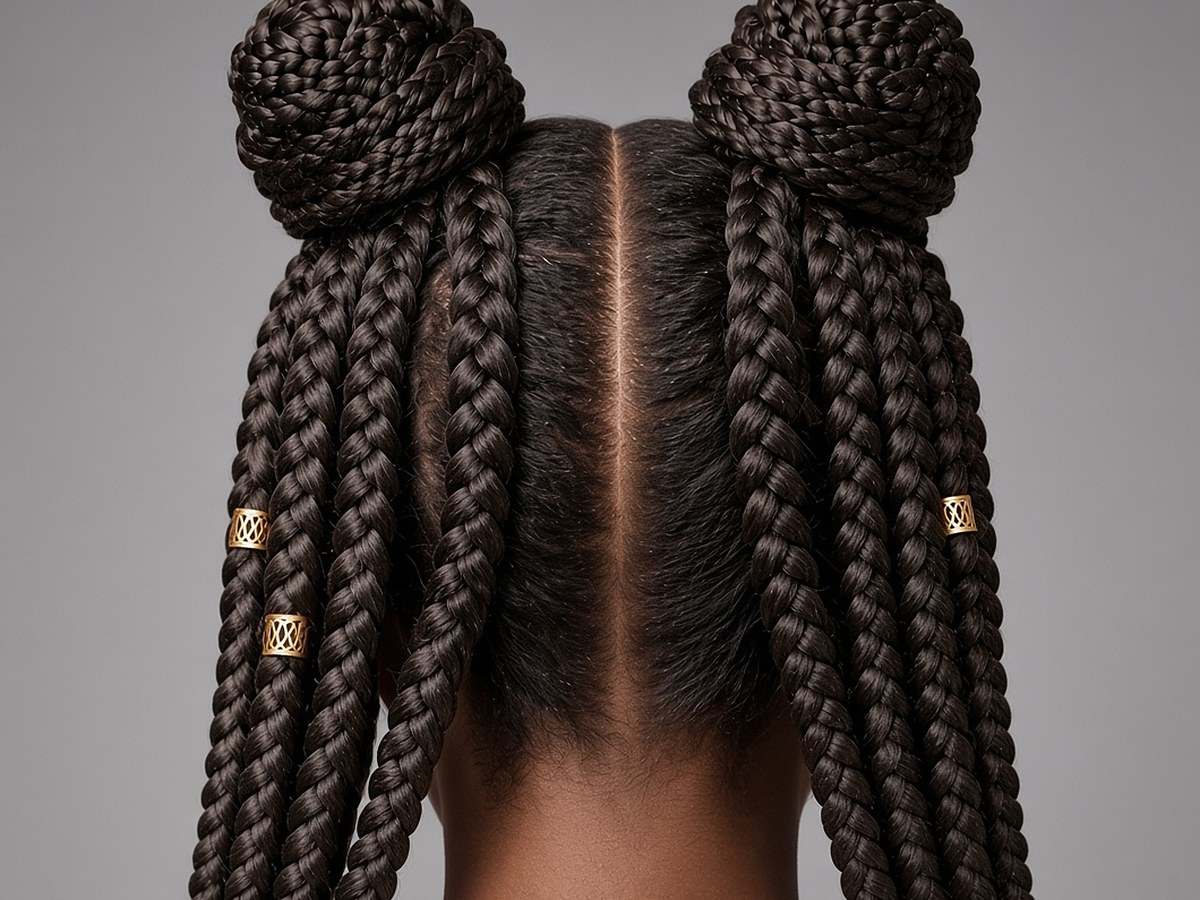
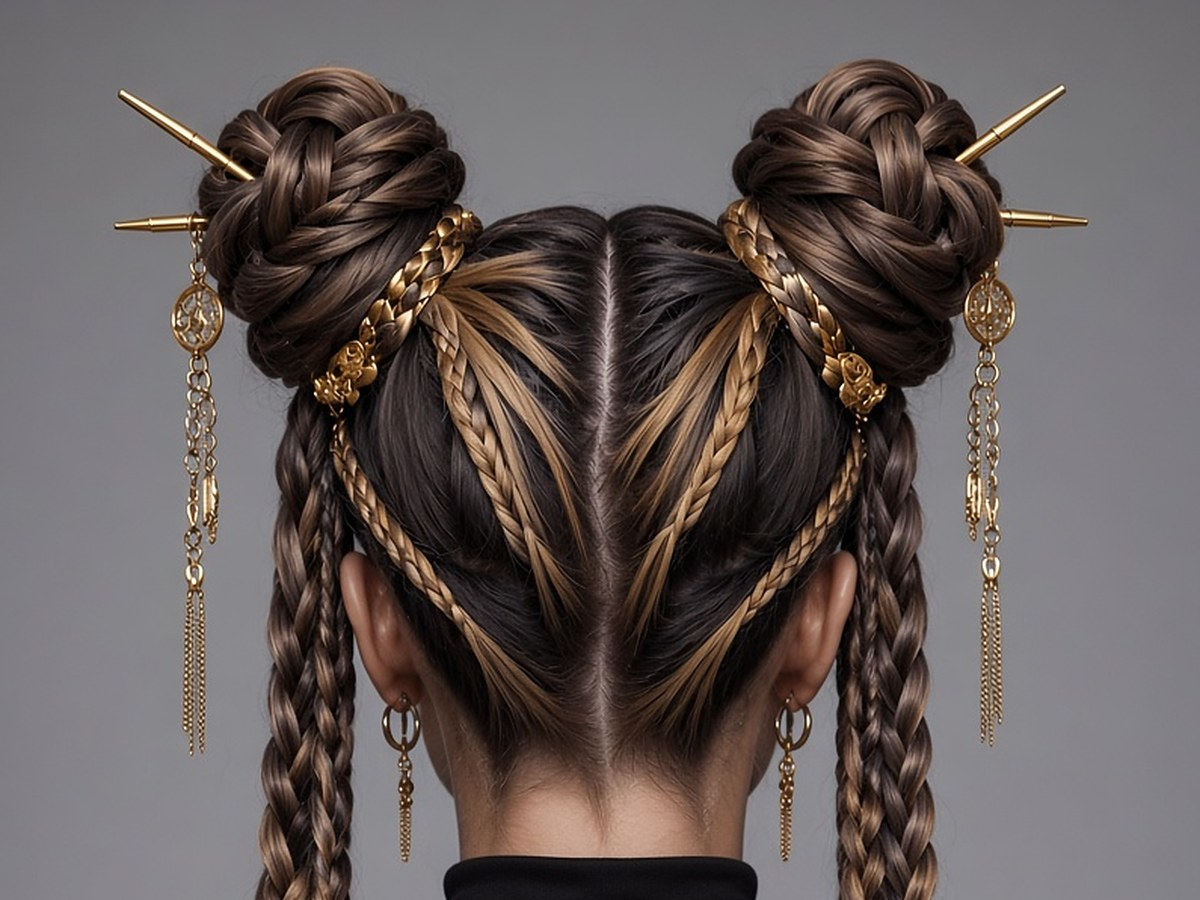
Usa a foto de referência das Tranças, só com as cores ajustadas
A composição é a mesma enviada pelo studio (coques trançados e
tranças longas, vista de costas). O cabelo passou a castanho-escuro
com mechas douradas, os acessórios para ouro, e a blusa ficou preta
e simples, sem o arreio.

diff --git a/index.html b/index.html
@@ -1,4 +1,4 @@
-<!doctype html><html lang="pt-BR"><head><meta charset="utf-8"><meta name="viewport" content="width=device-width,initial-scale=1"><title>Studio Vilela · Unhas, Maquiagem, Sobrancelha, Cílios e Tranças</title><meta name="description" content="Studio Vilela: unhas, maquiagem e design de sobrancelha. Olhar, beleza e expressão."><meta name="theme-color" content="#3a3a40"><link rel="icon" href="favicon.svg"><link rel="preconnect" href="https://fonts.googleapis.com"><link href="https://fonts.googleapis.com/css2?family=Cinzel:wght@400;500&family=Cormorant+Garamond:ital,wght@0,500;0,600;1,500&family=Montserrat:wght@300;400;500;600&display=swap" rel="stylesheet"><link rel="stylesheet" href="style.css?v=20261122-11"></head><body>
+<!doctype html><html lang="pt-BR"><head><meta charset="utf-8"><meta name="viewport" content="width=device-width,initial-scale=1"><title>Studio Vilela · Unhas, Maquiagem, Sobrancelha, Cílios e Tranças</title><meta name="description" content="Studio Vilela: unhas, maquiagem e design de sobrancelha. Olhar, beleza e expressão."><meta name="theme-color" content="#3a3a40"><link rel="icon" href="favicon.svg"><link rel="preconnect" href="https://fonts.googleapis.com"><link href="https://fonts.googleapis.com/css2?family=Cinzel:wght@400;500&family=Cormorant+Garamond:ital,wght@0,500;0,600;1,500&family=Montserrat:wght@300;400;500;600&display=swap" rel="stylesheet"><link rel="stylesheet" href="style.css?v=20261122-12"></head><body>
 <a class="pular" href="#conteudo">Pular para o conteúdo</a>
 <header class="topo"><a href="#inicio" class="marca" aria-label="Studio Vilela, início"><img src="img/borboleta.webp" alt="" width="44" height="39"><span><b>STUDIO</b> VILELA</span></a>
 <nav aria-label="Principal"><button class="menu-btn" aria-expanded="false" aria-controls="menu">Menu</button><ul id="menu"><li><a href="#servicos">Serviços</a></li><li><a href="#sobre">Sobre</a></li><li><a href="#galeria">Galeria</a></li><li><a href="#faq">Dúvidas</a></li><li><a href="#local">Onde estamos</a></li></ul></nav>
@@ -15,7 +15,7 @@
 <article class="card rev"><div class="card-img"><img src="img/make.jpg" alt="Maquiagem com tons dourados (foto ilustrativa)" loading="lazy"></div><div class="ico" aria-hidden="true"><svg viewBox="0 0 24 24"><path d="M8 21h8l-1-9H9Z M10 12V6l4-3v9"/></svg></div><h3>Maquiagem</h3><p>Social, festas, formaturas e noivas, com a Rafaela. <span class="valor">Valores sob consulta com a profissional.</span></p><a class="btn ouro js-wa" data-servico="make" data-msg="Olá, Rafaela! Tudo bem? Vim pelo site do Studio Vilela e gostaria de agendar maquiagem, por favor." href="#fada-agendar">Agendar com a Rafaela</a></article>
 <article class="card rev"><div class="card-img"><img src="img/sobrancelha-design.jpg" alt="Sobrancelha natural bem desenhada sendo penteada com escovinha (foto ilustrativa)" loading="lazy"></div><div class="ico" aria-hidden="true"><svg viewBox="0 0 24 24"><path d="M3 10q9-7 18 0 M5 15q7 5 14 0 M12 14.5a2 2 0 1 0 .01 0"/></svg></div><h3>Sobrancelha</h3><p>Design personalizado para o seu rosto, com a Jennyfer. <span class="valor">Valores sob consulta com a profissional.</span></p><a class="btn ouro js-wa" data-servico="sobr" data-quem="jen" data-msg="Olá, Jennyfer! Tudo bem? Vim pelo site do Studio Vilela e gostaria de agendar design de sobrancelha, por favor." href="#fada-agendar">Agendar com a Jennyfer</a></article>
 <article class="card rev"><div class="card-img"><img src="img/cilios.jpg" alt="Aplicação de extensão de cílios (foto ilustrativa)" loading="lazy"></div><div class="ico" aria-hidden="true"><svg viewBox="0 0 24 24"><path d="M3 12q9-8 18 0q-9 8-18 0Z M12 9.5a2.5 2.5 0 1 0 .01 0 M6 8 4.5 5.5M9.5 6.2 9 3.5M14.5 6.2 15 3.5M18 8l1.5-2.5"/></svg></div><h3>Lash designer (cílios)</h3><p>Extensão e design de cílios, com a Jennyfer. <span class="valor">Valores sob consulta com a profissional.</span></p><a class="btn ouro js-wa" data-servico="cilios" data-quem="jen" data-msg="Olá, Jennyfer! Tudo bem? Vim pelo site do Studio Vilela e gostaria de agendar cílios (lash), por favor." href="#fada-agendar">Agendar com a Jennyfer</a></article>
-<article class="card rev"><div class="card-img"><img src="img/trancas-box.jpg" alt="Vista de costas: dois coques trançados com tranças longas e grossas e detalhes dourados (foto ilustrativa)" loading="lazy"></div><div class="ico" aria-hidden="true"><svg viewBox="0 0 24 24"><path d="M9 3q6 3 0 6q-6 3 0 6q6 3 0 6 M15 3q-6 3 0 6q6 3 0 6q-6 3 0 6"/></svg></div><h3>Tranças</h3><p>Tranças variadas, com a Jennyfer (trancista). <span class="valor">Valores sob consulta com a profissional.</span></p><a class="btn ouro js-wa" data-servico="trancas" data-quem="jen" data-msg="Olá, Jennyfer! Tudo bem? Vim pelo site do Studio Vilela e gostaria de agendar tranças, por favor." href="#fada-agendar">Agendar com a Jennyfer</a></article></div><div class="infos" id="infos"><div class="info rev"><span class="info-ico" aria-hidden="true">💵</span><h3>Pagamento</h3><p>Aceita dinheiro.</p></div><div class="info rev"><span class="info-ico" aria-hidden="true">⏱</span><h3>Duração</h3><p>De 20 minutos a 3h30, ou mais, dependendo do procedimento.</p></div><div class="info rev destaque"><span class="info-ico" aria-hidden="true">💍</span><h3>Casamentos e eventos</h3><p>Atendemos casamentos e eventos com hora marcada — confirme antes com as profissionais.</p></div></div></section>
+<article class="card rev"><div class="card-img"><img src="img/trancas-box.jpg" alt="Vista de costas: dois coques trançados com tranças longas, mechas douradas e acessórios de ouro (foto ilustrativa)" loading="lazy"></div><div class="ico" aria-hidden="true"><svg viewBox="0 0 24 24"><path d="M9 3q6 3 0 6q-6 3 0 6q6 3 0 6 M15 3q-6 3 0 6q6 3 0 6q-6 3 0 6"/></svg></div><h3>Tranças</h3><p>Tranças variadas, com a Jennyfer (trancista). <span class="valor">Valores sob consulta com a profissional.</span></p><a class="btn ouro js-wa" data-servico="trancas" data-quem="jen" data-msg="Olá, Jennyfer! Tudo bem? Vim pelo site do Studio Vilela e gostaria de agendar tranças, por favor." href="#fada-agendar">Agendar com a Jennyfer</a></article></div><div class="infos" id="infos"><div class="info rev"><span class="info-ico" aria-hidden="true">💵</span><h3>Pagamento</h3><p>Aceita dinheiro.</p></div><div class="info rev"><span class="info-ico" aria-hidden="true">⏱</span><h3>Duração</h3><p>De 20 minutos a 3h30, ou mais, dependendo do procedimento.</p></div><div class="info rev destaque"><span class="info-ico" aria-hidden="true">💍</span><h3>Casamentos e eventos</h3><p>Atendemos casamentos e eventos com hora marcada — confirme antes com as profissionais.</p></div></div></section>
 <section id="sobre" class="sec marmore" data-fala><div class="duo"><figure class="rev moldura"><img src="logo-foto.jpg" alt="Logo do Studio Vilela em acrílico espelhado dourado na parede do studio" loading="lazy"></figure><div class="rev"><p class="kicker">Nossa história</p><h2>Sobre o studio</h2><p>O Studio Vilela é um negócio de família, nascido de um sonho de infância compartilhado por duas primas, <b>Rafaela Vilela</b> e <b>Jennyfer Vilela</b>.</p><p>Hoje esse sonho é o nosso studio: cada cliente é recebida com carinho, amor e atenção aos detalhes, porque acreditamos que beleza é valorizar o que já existe em você — o seu <em>olhar</em>, a sua <em>beleza</em> e a sua <em>expressão</em>.</p><ul class="selos"><li>✦ Atendimento com hora marcada</li><li>✦ Atenção a cada detalhe</li><li>✦ Ambiente acolhedor</li></ul></div></div></section>
 <section id="galeria" class="sec" data-fala><p class="kicker rev">Nossos trabalhos</p><h2 class="rev">Galeria</h2><p class="sub rev">Cílios, sobrancelhas e unhas feitos no studio.</p><div class="galeria2"><button class="g2 rev" data-src="img/trabalhos/01.webp"><img src="img/trabalhos/01.webp" alt="Cliente com extensão de cílios feita no Studio Vilela" loading="lazy" width="480" height="640"></button><button class="g2 rev" data-src="img/trabalhos/02.webp"><img src="img/trabalhos/02.webp" alt="Sobrancelha desenhada e cílios, trabalho do Studio Vilela" loading="lazy" width="360" height="640"></button><button class="g2 rev" data-src="img/trabalhos/03.webp"><img src="img/trabalhos/03.webp" alt="Unhas longas vermelhas com detalhe decorado, trabalho do Studio Vilela" loading="lazy" width="360" height="640"></button><button class="g2 rev" data-src="img/trabalhos/04.webp"><img src="img/trabalhos/04.webp" alt="Design de sobrancelha e cílios em close, trabalho do Studio Vilela" loading="lazy" width="535" height="640"></button><button class="g2 rev" data-src="img/trabalhos/05.webp"><img src="img/trabalhos/05.webp" alt="Close de olho com extensão de cílios, trabalho do Studio Vilela" loading="lazy" width="480" height="640"></button><button class="g2 rev" data-src="img/trabalhos/06.webp"><img src="img/trabalhos/06.webp" alt="Unhas vermelhas e decoradas em tom nude, trabalho do Studio Vilela" loading="lazy" width="361" height="640"></button><button class="g2 rev" data-src="img/trabalhos/07.webp"><img src="img/trabalhos/07.webp" alt="Aplicação de extensão de cílios no Studio Vilela" loading="lazy" width="361" height="640"></button><button class="g2 rev" data-src="img/trabalhos/08.webp"><img src="img/trabalhos/08.webp" alt="Close de sobrancelha e cílios, trabalho do Studio Vilela" loading="lazy" width="472" height="635"></button><button class="g2 rev" data-src="img/trabalhos/09.webp"><img src="img/trabalhos/09.webp" alt="Cliente com cílios e sobrancelha feitos no studio" loading="lazy" width="476" height="635"></button><button class="g2 rev" data-src="img/trabalhos/10.webp"><img src="img/trabalhos/10.webp" alt="Close de extensão de cílios, trabalho do Studio Vilela" loading="lazy" width="472" height="638"></button><button class="g2 rev" data-src="img/trabalhos/11.webp"><img src="img/trabalhos/11.webp" alt="Cliente com sobrancelha e cílios feitos no studio" loading="lazy" width="472" height="637"></button><button class="g2 rev" data-src="img/trabalhos/12.webp"><img src="img/trabalhos/12.webp" alt="Cliente com extensão de cílios feita no studio" loading="lazy" width="472" height="638"></button><button class="g2 rev" data-src="img/trabalhos/13.webp"><img src="img/trabalhos/13.webp" alt="Cliente com cílios e sobrancelha, resultado do studio" loading="lazy" width="472" height="638"></button><button class="g2 rev" data-src="img/trabalhos/14.webp"><img src="img/trabalhos/14.webp" alt="Cliente com extensão de cílios, resultado do studio" loading="lazy" width="476" height="631"></button><button class="g2 rev" data-src="img/trabalhos/15.webp"><img src="img/trabalhos/15.webp" alt="Cliente com cílios feitos no Studio Vilela" loading="lazy" width="472" height="638"></button><button class="g2 rev" data-src="img/trabalhos/16.webp"><img src="img/trabalhos/16.webp" alt="Cliente com design de sobrancelha feito no studio" loading="lazy" width="472" height="638"></button><button class="g2 rev" data-src="img/trabalhos/17.webp"><img src="img/trabalhos/17.webp" alt="Cliente com sobrancelha e cílios naturais feitos no studio" loading="lazy" width="472" height="638"></button></div><p class="rev ver-mais"><a href="https://www.instagram.com/studiovvilela_/" target="_blank" rel="noopener">Veja mais no Instagram @studiovvilela_ →</a></p></section>
 <dialog id="lightbox" aria-label="Foto ampliada"><button class="lb-x" aria-label="Fechar">×</button><img alt=""></dialog>
@@ -28,7 +28,7 @@
 <details><summary>Atendem casamentos e eventos?</summary><p>Atendemos casamentos e eventos com hora marcada — confirme antes com as profissionais. Rafaela (11) 94269-4714 para unhas e maquiagem; Jennyfer (11) 99596-5175 para sobrancelha, cílios e tranças.</p></details></div></section>
 <section id="local" class="sec marmore" data-fala><p class="kicker rev">Visite-nos</p><h2 class="rev">Localização e horário</h2><p class="sub rev">Terça a sábado, somente com hora marcada</p><div class="duo"><div class="rev"><h3>Endereço</h3><address class="end">R. Padre Marçal, 112<br>Centro · São Roque – SP<br>CEP 18120-000</address><a class="btn ouro" href="https://www.google.com/maps/search/?api=1&query=R.%20Padre%20Mar%C3%A7al%2C%20112%20-%20Centro%2C%20S%C3%A3o%20Roque%20-%20SP%2C%2018120-000%2C%20Brasil" target="_blank" rel="noopener">📍 Como chegar</a><h3>Horário</h3><ul class="horas"><li><span>Terça a sábado</span><b>Somente com hora marcada</b></li><li><span>Domingo e segunda</span><b>Fechado</b></li></ul><h3>WhatsApp</h3><p class="end"><b>Rafaela Vilela</b> · unhas e maquiagem<br><a href="https://wa.me/5511942694714" target="_blank" rel="noopener">(11) 94269-4714</a><br><b>Jennyfer Vilela</b> · sobrancelha, cílios e tranças<br><a href="https://wa.me/5511995965175" target="_blank" rel="noopener">(11) 99596-5175</a></p></div><div class="mapa rev"><iframe title="Mapa: Studio Vilela, R. Padre Marçal, 112 - Centro, São Roque - SP" src="https://www.google.com/maps?q=R.%20Padre%20Mar%C3%A7al%2C%20112%20-%20Centro%2C%20S%C3%A3o%20Roque%20-%20SP%2C%2018120-000%2C%20Brasil&output=embed" loading="lazy" referrerpolicy="no-referrer-when-downgrade" allowfullscreen></iframe></div></div></section>
 </main>
-<footer data-fala><img src="img/borboleta.webp" alt="" width="70"><p class="f-marca">STUDIO VILELA</p><p><em>Olhar, beleza e expressão.</em></p><p>R. Padre Marçal, 112 - Centro, São Roque - SP, CEP 18120-000</p><p><a href="https://www.instagram.com/studiovvilela_/" target="_blank" rel="noopener">Instagram @studiovvilela_</a> </p><p>WhatsApp: Rafaela Vilela (unhas e maquiagem) <a href="https://wa.me/5511942694714" target="_blank" rel="noopener">(11) 94269-4714</a> · Jennyfer Vilela (sobrancelha, cílios e tranças) <a href="https://wa.me/5511995965175" target="_blank" rel="noopener">(11) 99596-5175</a></p><p class="mini">© 2026 Studio Vilela · Fotos e vídeos ilustrativos: Pexels; card de Tranças: imagem gerada para o site</p></footer>
+<footer data-fala><img src="img/borboleta.webp" alt="" width="70"><p class="f-marca">STUDIO VILELA</p><p><em>Olhar, beleza e expressão.</em></p><p>R. Padre Marçal, 112 - Centro, São Roque - SP, CEP 18120-000</p><p><a href="https://www.instagram.com/studiovvilela_/" target="_blank" rel="noopener">Instagram @studiovvilela_</a> </p><p>WhatsApp: Rafaela Vilela (unhas e maquiagem) <a href="https://wa.me/5511942694714" target="_blank" rel="noopener">(11) 94269-4714</a> · Jennyfer Vilela (sobrancelha, cílios e tranças) <a href="https://wa.me/5511995965175" target="_blank" rel="noopener">(11) 99596-5175</a></p><p class="mini">© 2026 Studio Vilela · Fotos e vídeos ilustrativos: Pexels; card de Tranças: foto do studio, recolorida para o site</p></footer>
 <div class="fada" id="fada"><div class="fada-painel" id="fada-painel" role="dialog" aria-label="Assistente Vily" hidden><div class="fp-topo"><img src="img/fada-avatar.webp" alt="" width="40" height="40"><strong>Oi! Eu sou a Vily</strong><button id="fada-fechar" aria-label="Fechar assistente">×</button></div><p id="fada-txt" aria-live="polite">Como posso te ajudar?</p><div class="fp-botoes" id="fada-botoes"></div></div><button class="fada-btn" id="fada-btn" aria-expanded="false" aria-controls="fada-painel"><span class="balao">Posso ajudar? ✨</span><img src="img/fada.webp" alt="" width="120" height="162"><span class="sr">Abrir assistente Vily</span></button></div>
 <div id="voos" class="voos" hidden aria-hidden="true"></div>
-<script src="app.js?v=20261122-11"></script></body></html>
+<script src="app.js?v=20261122-12"></script></body></html>

diff --git a/README.md b/README.md
@@ -20,7 +20,7 @@ Endereço (confirmado): R. Padre Marçal, 112 - Centro, São Roque - SP, CEP 181
 - `logo-foto.jpg`: foto do logo do studio (enviada pela família).
 
 ## Créditos (Pexels, licença livre — https://www.pexels.com/license/)
-Fotos: cottonbro studio (6940364, unhas — card de serviço), Shiny Diamond (3762664, sobrancelha — card de serviço), Nataliya Vaitkevich (5128220, cílios), Valdans Media (30589139). Card de Tranças: imagem gerada para este projeto (vista de costas, dois coques trançados com tranças longas e acessórios dourados), recortada em 4:3.
+Fotos: cottonbro studio (6940364, unhas — card de serviço), Shiny Diamond (3762664, sobrancelha — card de serviço), Nataliya Vaitkevich (5128220, cílios), Valdans Media (30589139). Card de Tranças: foto fornecida pelo studio (vista de costas, dois coques trançados com tranças longas), recolorida para o site (cabelo castanho-escuro com mechas douradas, acessórios em ouro, blusa preta simples, fundo cinza) e recortada em 4:3.
 Vídeos do hero: Artem Podrez — https://www.pexels.com/video/4783390/ ; Pavel Danilyuk — https://www.pexels.com/video/4855852/ ; Kaboompics — https://www.pexels.com/video/7311589/ . Recortados, sem áudio e sem texto na tela.
 
 Horário: terça a sábado somente com hora marcada; domingo e segunda fechado.
